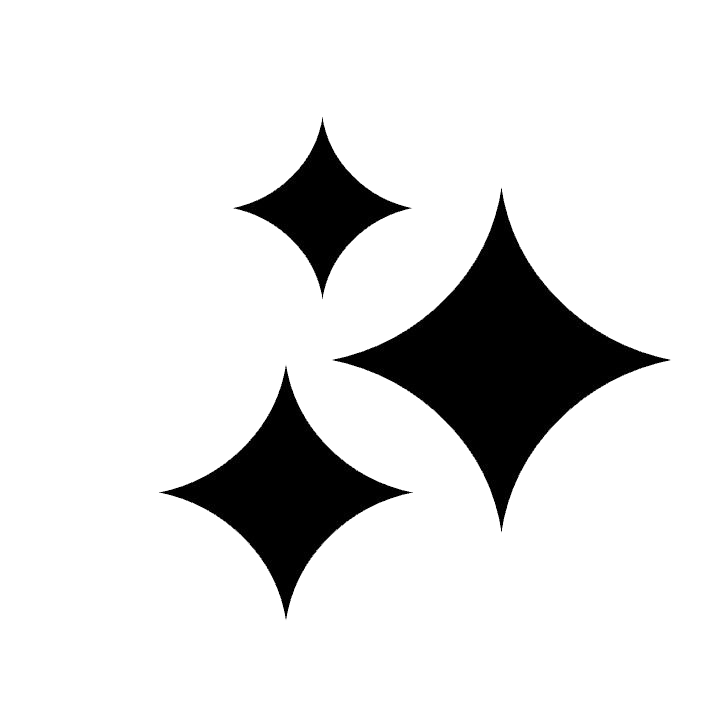
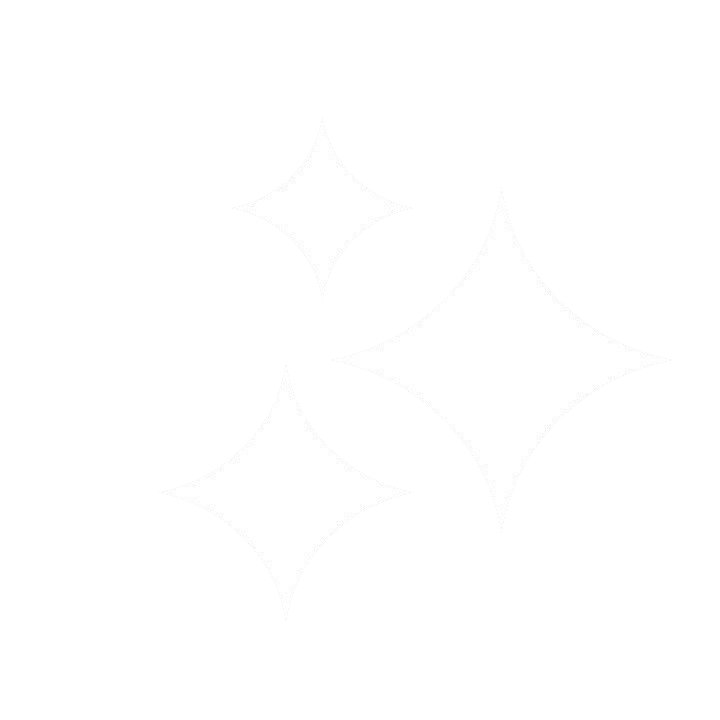
Animaciones en index-sitio.html y portafolio.html

Changed region(s): [[0.4583, 0.275, 0.9167, 0.7333], [0.2139, 0.5194, 0.5806, 0.8556], [0.3361, 0.1528, 0.5806, 0.3972]]

diff --git a/pages/portafolio.html b/pages/portafolio.html
@@ -15,7 +15,7 @@
 </head>
 <body class="portafolio-page">
 
-
+<div class="menu-fijo">
     <header class="menu-contenedor">
         <div class="menu-left">
             <ul class="menu-links">
@@ -38,6 +38,7 @@
             </ul>
         </div>
     </header>
+</div>
 
 
     <main class="portafolio">
@@ -73,9 +74,9 @@
                 </section>
                 
                 <section class="portafolio__slider">
-                        <img class="obra" src="../images/fake-img.jpg" alt="prueba1">
-                        <img class="obra" src="../images/fake-img.jpg" alt="prueba2">
-                        <img class="obra" src="../images/fake-img.jpg" alt="prueba3">      
+                        <img class="obra1" src="../images/fake-img.jpg" alt="prueba1">
+                        <img class="obra1" src="../images/fake-img.jpg" alt="prueba2">
+                        <img class="obra1" src="../images/fake-img.jpg" alt="prueba3">
                 </section>
 
                 <div class="portafolio__arrows">
@@ -83,6 +84,52 @@
                     <img src="../images/arrow-right-svgrepo-com.svg" alt="next" width="50px">
                 </div>
         </section>
+
+        <section class="portafolio-content">
+            <section class="portafolio__ficha">
+                    <h3>Título del proyecto</h3>
+                    <h6><a href="#">Categoría</a></h6>
+                    <p class="descripcion">Área de texto de descripción del proyecto. 
+                    Lorem ipsum dolor sit amet, consectetur adipiscing elit, sed do eiusmod 
+                    incididunt ut labore et dolore magna aliqua. Ut enim ad minim
+                    veniam, quis nostrud exercitation ullamco laboris nisi ut aliquip
+                    ex ea commodo consequat.</p>
+            </section>
+            
+            <section class="portafolio__slider">
+                    <img class="obra2" src="../images/fake-img.jpg" alt="prueba1">
+                    <img class="obra2" src="../images/fake-img.jpg" alt="prueba2">
+                    <img class="obra2" src="../images/fake-img.jpg" alt="prueba3">
+            </section>
+
+            <div class="portafolio__arrows">
+                <img src="../images/arrow-left-svgrepo-com.svg" alt="previous" width="50px">
+                <img src="../images/arrow-right-svgrepo-com.svg" alt="next" width="50px">
+            </div>
+    </section>
+
+    <section class="portafolio-content">
+        <section class="portafolio__ficha">
+                <h3>Título del proyecto</h3>
+                <h6><a href="#">Categoría</a></h6>
+                <p class="descripcion">Área de texto de descripción del proyecto. 
+                Lorem ipsum dolor sit amet, consectetur adipiscing elit, sed do eiusmod 
+                incididunt ut labore et dolore magna aliqua. Ut enim ad minim
+                veniam, quis nostrud exercitation ullamco laboris nisi ut aliquip
+                ex ea commodo consequat.</p>
+        </section>
+        
+        <section class="portafolio__slider">
+                <img class="obra3" src="../images/fake-img.jpg" alt="prueba1">
+                <img class="obra3" src="../images/fake-img.jpg" alt="prueba2">
+                <img class="obra3" src="../images/fake-img.jpg" alt="prueba3">
+        </section>
+
+        <div class="portafolio__arrows">
+            <img src="../images/arrow-left-svgrepo-com.svg" alt="previous" width="50px">
+            <img src="../images/arrow-right-svgrepo-com.svg" alt="next" width="50px">
+        </div>
+</section>
     
     </main>
 

diff --git a/index-sitio.html b/index-sitio.html
@@ -16,29 +16,30 @@
 
 
 <body class="fondo-inicio">
-    <header class="menu-contenedor">
-        <div class="menu-left">
-            <ul class="menu-links">
-                <li><a href="./pages/acerca-de.html">Acerca de</a></li>
+    <div class="header-inicio">
+        <header class="menu-contenedor">
+            <div class="menu-left">
+                <ul class="menu-links">
+                    <li><a href="./pages/acerca-de.html">Acerca de</a></li>
 
-                <li><a href="./pages/portafolio.html">Portafolio</a></li>                
-            </ul>
-        </div>
+                    <li><a href="./pages/portafolio.html">Portafolio</a></li>                
+                </ul>
+            </div>
 
-        <div class="menu-title">
-            <a href="./index-sitio.html"><img class="menu-logo" src="./images/3anillos.png" alt="LOGO" width="100px" height="100px"></a>
-        </div>   
-            
-        <div class="menu-right">
+            <div class="menu-title">
+                <a href="./index-sitio.html"><img class="menu-logo" src="./images/3anillos.png" alt="LOGO" width="100px" height="100px"></a>
+            </div>   
+                
+            <div class="menu-right">
 
-            <ul class="menu-links">
-                <li><a href="./pages/contacto.html">Contacto</a></li>
+                <ul class="menu-links">
+                    <li><a href="./pages/contacto.html">Contacto</a></li>
 
-                <li><a href="./pages/menu.html">Menú</a></li>
-            </ul>
-        </div>
-    </header>
-
+                    <li><a href="./pages/menu.html">Menú</a></li>
+                </ul>
+            </div>
+        </header>
+    </div>  
     
     <main>
         <section>
@@ -64,24 +65,25 @@
         </section>
     </main>
 
+    <div class="footer-inicio">
+        <footer>
+            
+            <div class="footer-logo">
+                <img src="./images/3anillos.png" alt="LOGO" width="80" height="80">
+            </div>
 
-    <footer>
-        
-        <div class="footer-logo">
-            <img src="./images/3anillos.png" alt="LOGO" width="80" height="80">
-        </div>
+            <div class="footer-links">
+                <a target="_blank" href="https://www.instagram.com/">Instagram</a>
+                <a target="_blank" href="https://youtube.com/">Youtube</a>
+                <a target="_blank" href="https://www.linkedin.com/">LinkedIn</a>
+            </div>
 
-        <div class="footer-links">
-            <a target="_blank" href="https://www.instagram.com/">Instagram</a>
-            <a target="_blank" href="https://youtube.com/">Youtube</a>
-            <a target="_blank" href="https://www.linkedin.com/">LinkedIn</a>
-        </div>
+            <div class="footer-rights">
+                <p>© Todos los derechos reservados, 2022</p>
+            </div>
 
-        <div class="footer-rights">
-            <p>© Todos los derechos reservados, 2022</p>
-        </div>
-
-    </footer>
+        </footer>
+    </div>
 
 </body>
 

diff --git a/css/hoja-de-estilos.css b/css/hoja-de-estilos.css
@@ -50,7 +50,6 @@ header{
     height: 120px;
     margin: 10px 100px 10px 100px;
     padding: 10px;
-    background-color:  rgba(255, 255, 255, 0.5);
     border-radius: 60px;
 }
 
@@ -300,7 +299,7 @@ form{
 /* Estilo portafolio.html */
 
 .portafolio{
-    margin: 20px 0px 20px 100px;
+    margin: 200px 0px 20px 100px;
 }
 
 .portafolio__nav, li{
@@ -335,7 +334,6 @@ form{
     max-width: 67%;
     height: 660px;
     overflow-x: scroll;
-    overflow-y: scroll;
     gap: 50px;
 }
 
@@ -345,6 +343,7 @@ form{
     flex-flow: row wrap;
     justify-content: end;
     padding-top: 50px;
+    padding-bottom: 100px;
     gap: 3%;
 }
 
@@ -353,8 +352,86 @@ form{
     margin-right: 100px;
 }
 
-/* Media Querys */
+/* Animaciones para el Index */
 
+.header-inicio{
+    animation: fade-in-top 1s cubic-bezier(0.390, 0.575, 0.565, 1.000) 0.1s both;
+    height: 120px;
+    margin: 10px 100px 10px 100px;
+    background-color:  rgba(255, 255, 255, 0.5);
+    border-radius: 60px;
+}
+
+@keyframes fade-in-top {
+    0% {
+      transform: translateY(-50px);
+      opacity: 0;
+    }
+    100% {
+      transform: translateY(0);
+      opacity: 1;
+    }
+  }
+
+.hero__gif{
+    animation: rotate-vert-center 5s linear infinite both;
+}
+
+@keyframes rotate-vert-center {
+    0% {
+      transform: rotateY(0);
+    }
+    100% {
+      transform: rotateY(360deg);
+    }
+  }
+
+.footer-inicio{
+    animation: fade-in-bottom 1s cubic-bezier(0.390, 0.575, 0.565, 1.000) 0.1s both;
+}
+
+@keyframes fade-in-bottom {
+    0% {
+      transform: translateY(50px);
+      opacity: 0;
+    }
+    100% {
+      transform: translateY(0);
+      opacity: 1;
+    }
+  }
+
+/*  Animaciones para portafolio */
+
+.menu-fijo {
+    background-color: rgba(127, 255, 212, 0.066);
+    -webkit-backdrop-filter: blur(8px);
+    backdrop-filter: blur(8px);
+    position: fixed;
+    top: 0px;
+    width: 100%;
+    margin: 0px;
+    z-index: 1;
+}
+
+
+
+.portafolio-content{
+	animation: fade-in 2s ease-in both;}
+
+@keyframes fade-in {
+    0% {
+        opacity: 0;
+      }
+      100% {
+        opacity: 1;
+      }
+    }
+    
+
+
+
+/* Media Querys */
 
 
 @media screen and (max-width: 1200px) {
@@ -452,7 +529,7 @@ form{
     }
 
     .portafolio{
-        margin: 60px 0px 80px 50px;
+        margin: 160px 0px 80px 50px;
     }
 
     .portafolio__nav{
@@ -516,6 +593,10 @@ form{
 
     .hero-info p{
         font-size: 26px;
+    }
+
+    .portafolio{
+        margin-top: 170px;
     }
 
     .portafolio-content{
@@ -605,7 +686,7 @@ form{
         display: flex;
         flex-direction: column;
         width: auto;
-        margin: 20px;
+        margin: 160px 20px 20px 20px;
     }
 
     .portafolio__nav{
